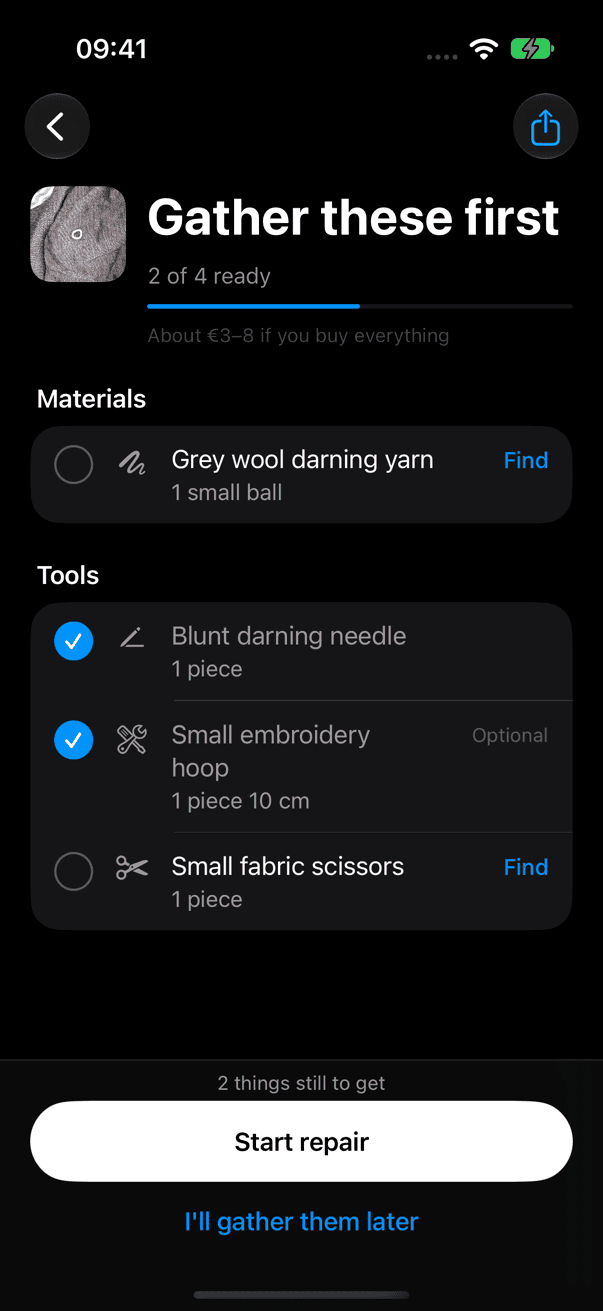
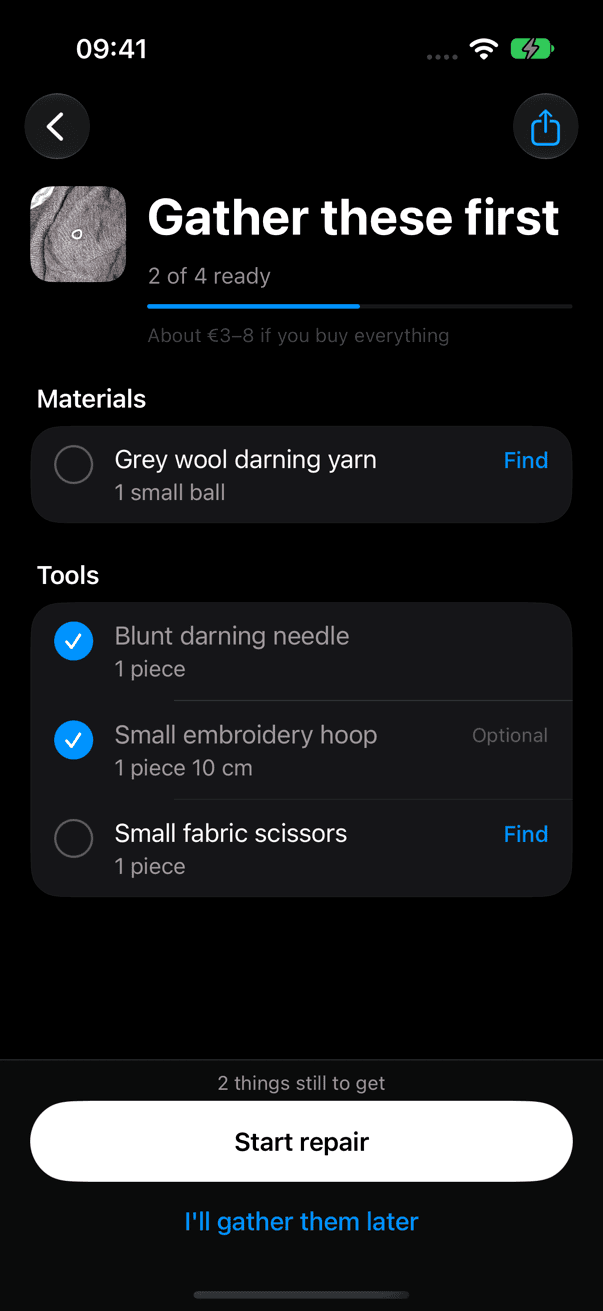
ios: Checkliste mit eigenem Foto im Kopf, geratene Item-Symbole wieder raus; Projekt-Schritte antippbar

diff --git a/ios/RepairAssistant/Views/ShoppingListView.swift b/ios/RepairAssistant/Views/ShoppingListView.swift
@@ -89,8 +89,6 @@ struct ShoppingListView: View {
             } label: {
                 HStack(alignment: .top, spacing: 14) {
                     CheckCircle(on: have).padding(.top, 1)
-                    Image(systemName: Self.symbol(item)).font(.system(size: 17)).foregroundStyle(Theme.inkSecondary)
-                        .frame(width: 24).padding(.top, 2).accessibilityHidden(true)
                     VStack(alignment: .leading, spacing: 3) {
                         Text(item.name).font(.body).foregroundStyle(have ? Theme.inkSecondary : Theme.ink)
                             .multilineTextAlignment(.leading).fixedSize(horizontal: false, vertical: true)
@@ -115,23 +113,6 @@ struct ShoppingListView: View {
         }
         .padding(.horizontal, 16).padding(.vertical, 12)
         .frame(minHeight: 56)
-    }
-
-    /// Small SF Symbol matching what the item is.
-    static func symbol(_ item: ShoppingItem) -> String {
-        let n = (item.name + " " + item.searchTerm).lowercased()
-        func has(_ k: [String]) -> Bool { k.contains { n.contains($0) } }
-        if has(["scissor", "shears", "snip"]) { return "scissors" }
-        if has(["needle"]) { return "pencil.line" }
-        if has(["thread", "yarn", "floss", "spool"]) { return "scribble.variable" }
-        if has(["pin", "clip"]) { return "pin" }
-        if has(["patch", "fabric", "denim", "cloth", "iron-on", "interfacing"]) { return "square.on.square.dashed" }
-        if has(["glue", "adhesive", "cement", "epoxy", "tape"]) { return "drop.fill" }
-        if has(["solder"]) { return "flame" }
-        if has(["screwdriver", "screw", "wrench", "pliers", "tool"]) { return "wrench.and.screwdriver" }
-        if has(["sandpaper", "brush", "cleaner", "cloth", "wipe"]) { return "paintbrush" }
-        if has(["ruler", "tape measure", "measur", "chalk", "marker", "pen"]) { return "ruler" }
-        return item.kind == .tool ? "wrench.and.screwdriver" : "circle.dotted"
     }
 
     static func shopURL(_ item: ShoppingItem) -> URL? {

diff --git a/docs/HANDOFF.md b/docs/HANDOFF.md
@@ -12,6 +12,8 @@ Jury-Verlauf in der Nacht (jede Runde ein frischer Agent, alle v8-Screenshots, R
 | 4 | 7,4 | **nein** |
 | 5 | 7,2 | **nein** |
 | 6 | 7,2 | **nein** (nach Live Activity, Übergängen, Haptik) |
+| 7 | 7,7 | **nein** (neue Regeln: Open Weights und Film nicht abgezogen) |
+| 8 | 7,4 | teilweise (KI-Testfotos, generische Checkliste) |
 
 Die Werte schwanken je nach Juror um etwa ±0,3. Gedeckelt sind sie durch zwei Punkte, die kein Design-Fix löst:
 
